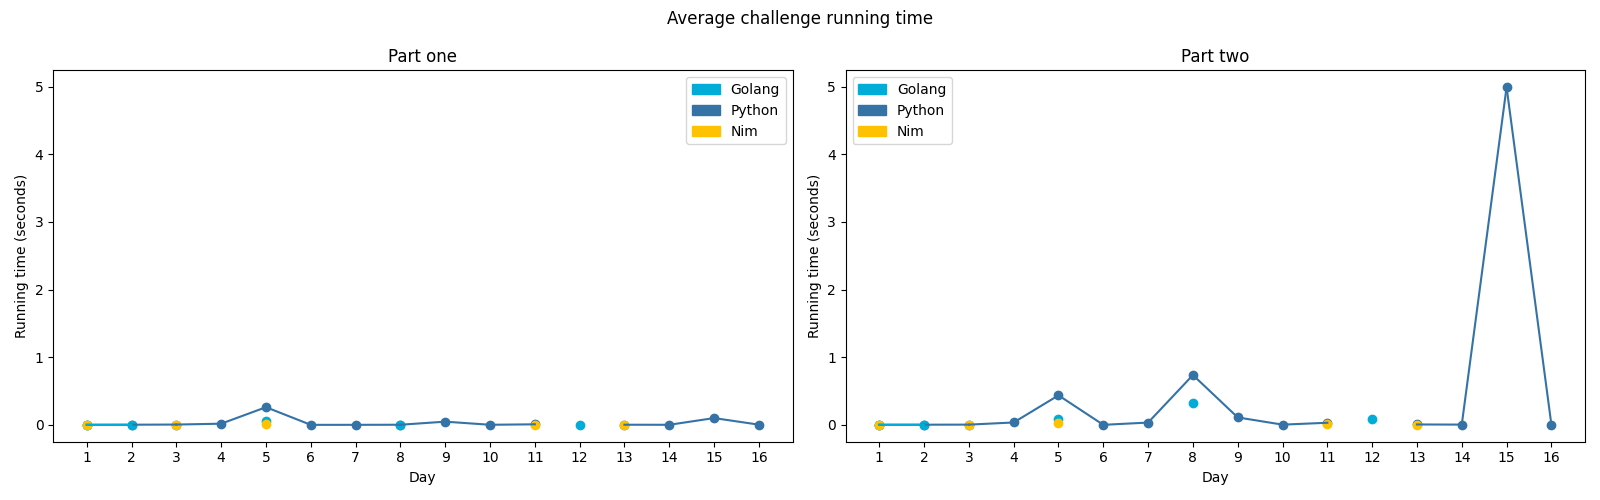
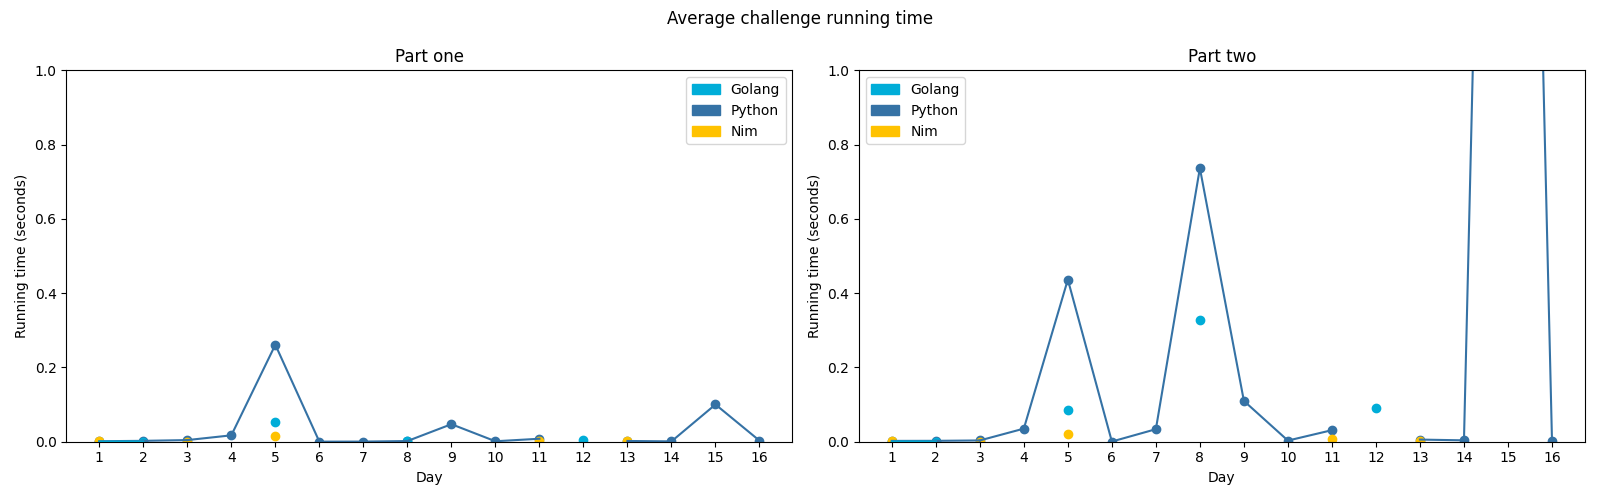
Set maximum y-axis range to 0<=y<=1

diff --git a/generate-benchmark-graph.py b/generate-benchmark-graph.py
@@ -14,7 +14,7 @@ COLOURS = {
     "Nim": "#ffc200"
 }
 
-BAR_WIDTH = 0.25
+MAX_Y_VALUE = 1
 
 challenge_dir_regex = re.compile("""(?m)^(\d{2})-([a-zA-Z]+)$""")
 
@@ -88,6 +88,7 @@ def do_auxillary_parts(axis):
     plt.ylabel("Running time (seconds)")
     plt.xlabel("Day")
     plt.legend(handles=[patches.Patch(color=COLOURS[label], label=label) for label in COLOURS])
+    plt.ylim([0, MAX_Y_VALUE])
     # plt.legend(legends)
 
 do_auxillary_parts(axp1)
